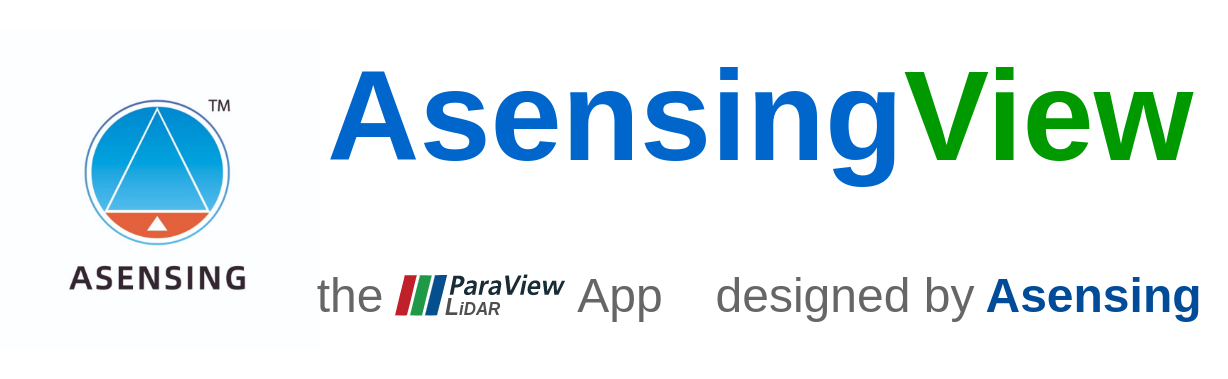
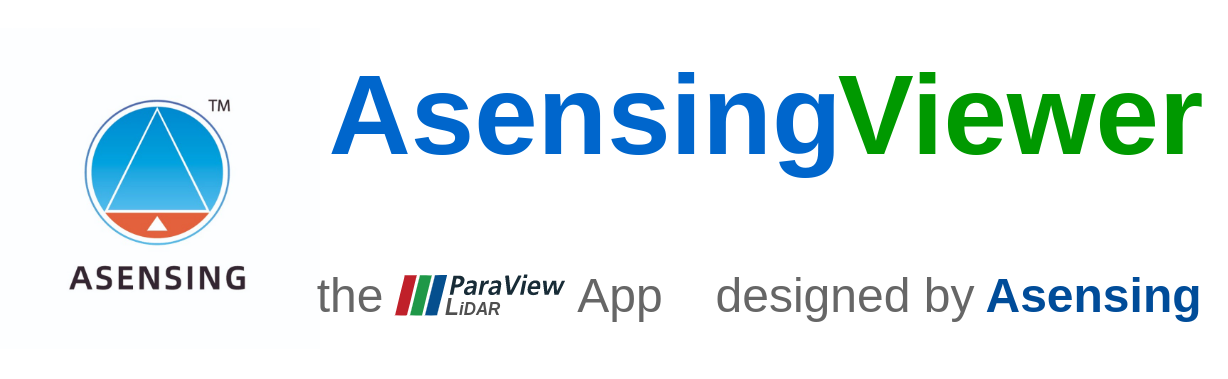
[modify] AsensingView -> AsensingViewer

Changed region(s): [[0.2476, 0.1741, 0.9902, 0.4934], [0.2785, 0.1741, 0.3094, 0.2032]]

diff --git a/Application/Ui/python/lidarview/aboutDialog.py b/Application/Ui/python/lidarview/aboutDialog.py
@@ -48,7 +48,7 @@ def showDialog(mainWindow):
     w('copyrightLabel').setText(copyrightText)
     
     textBoxContent = '''<h4>License</h4>
-                        AsensingView is provided under the Apache License 2.0.<br /><br />
+                        AsensingViewer is provided under the Apache License 2.0.<br /><br />
                         The initial developer of some parts of the framework, which are 
                         copied from, derived from, or inspired by LidarView open source project.
                         <br />
